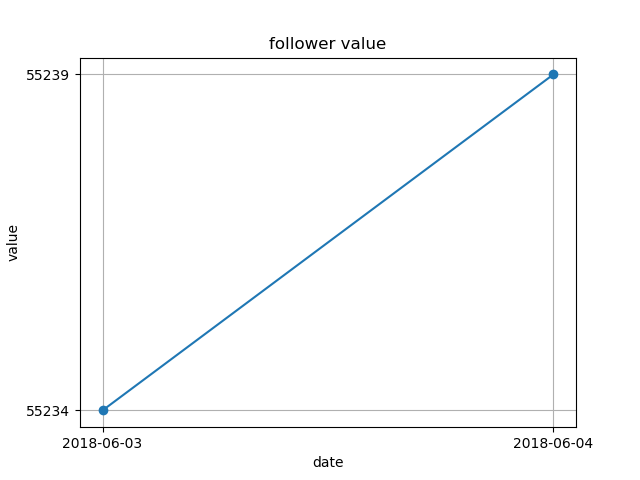
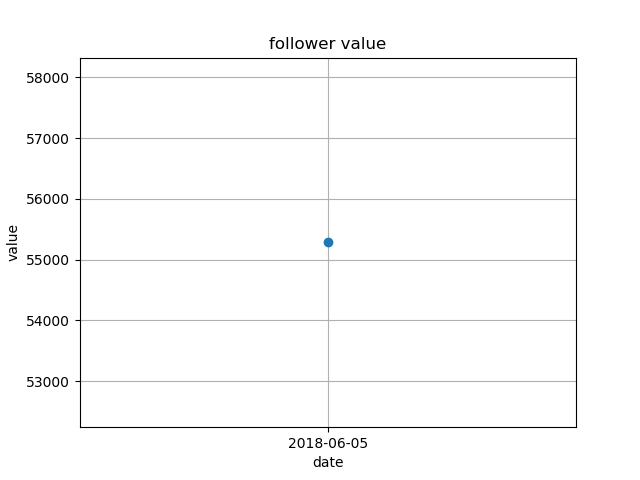
modify

diff --git a/2018-06-05_followersData_yaritaiji0324.html b/2018-06-05_followersData_yaritaiji0324.html
@@ -1,0 +1,8 @@
+
+        <!DOCTYPE html>
+        <html>
+        <head><title>result_2018-06-05</title></head>
+        <body>
+        <img src='./yaritaiji0324_account_value.png'>
+        </body></html>
+        
